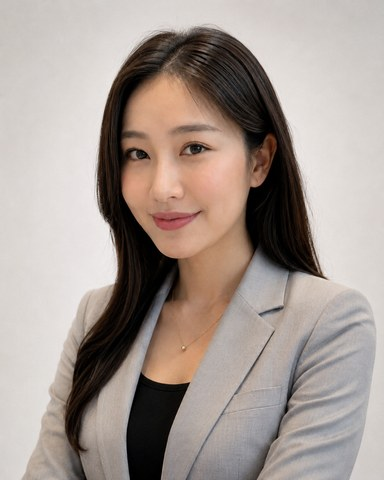
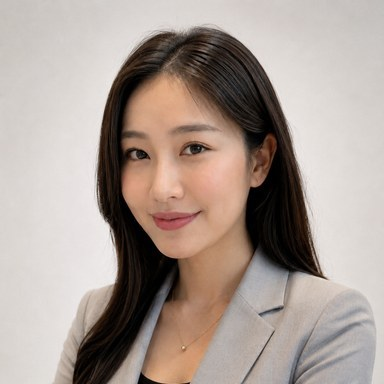
team: refreshed jonathan photo, abby square-crop, bios in human voice
Three fixes in one pass:

1. Jonathan's photo refreshed — new headshot (Jon.png, 1.96MB) resized
   and saved as jonathan.jpg, optimized to 28KB and cropped to 480x480.

2. Abby's avatar was rendering as a slight oval because the source was
   384x480 (taller than wide); the round avatar's `object-cover` was
   compressing the face inside the circle. Square-cropped to 384x384
   (top-anchored, keeps the face) so it now matches Andrew's and
   Jonathan's perfectly circular framing.

3. Bios rewritten in human voice with no em dashes. Style is closer
   to a colleague describing the team than a press release. Notable
   content updates:
     - Abby's school: UC San Diego → UCLA
     - Jonathan's intro reframed around "across the desk from owner-
       operators" rather than "working closely with"
     - Andrew's intro re-sequenced for natural reading order

Founder note paragraphs on /about and the homepage also stripped of
em dashes, keeping the same content but the rhythm now reads like
spoken prose.

diff --git a/web/lib/team.ts b/web/lib/team.ts
@@ -26,8 +26,8 @@ export const team: TeamMember[] = [
     photo: "/assets/team/andrew.jpg",
     photoFocal: "center 32%",
     bio: [
-      "Andrew founded Xtractor Depot in 2016, growing it into a multi-industry supplier of precision lab equipment to clients ranging from cannabis operators to SpaceX and Lucid Motors. A Saint Louis University accounting graduate, he started his entrepreneurial journey in college.",
-      "Running a fast-scaling physical-goods business exposed a universal gap: no one was building and running AI automation systems for operating businesses on an ongoing basis. That insight became Ramped AI.",
+      "Andrew founded Xtractor Depot in 2016 and grew it into a multi-industry supplier of precision lab equipment, with clients ranging from cannabis operators to SpaceX and Lucid Motors. He started his entrepreneurial journey in college and graduated from Saint Louis University with an accounting degree.",
+      "Running a fast-scaling physical-goods business made one gap obvious: nobody was building and running AI automation for operating companies on an ongoing basis. That insight became Ramped AI.",
       "Outside the office, Andrew plays ice hockey, golf, tennis, and paintball. He lives in Los Angeles County with his wife Steph and their dogs.",
     ],
     tags: ["Operations", "B2B Sales", "Manufacturing", "AI Strategy"],
@@ -43,9 +43,9 @@ export const team: TeamMember[] = [
     photo: "/assets/team/jonathan.jpg",
     photoFocal: "center 32%",
     bio: [
-      "A University of Missouri Trulaske College of Business graduate and Dean's List honoree, Jonathan started his career in commercial banking, working closely with owner-operators across manufacturing, distribution, and professional services.",
-      "Hundreds of conversations later, he kept seeing the same pattern: manual workflows wasting hours every week, delaying customer responses, holding back businesses ready to scale. That insight led him to co-found Ramped AI alongside Andrew.",
-      "As COO, Jonathan owns day-to-day execution and client delivery — making sure every implementation runs autonomously from week one. A Missouri native, he's based in the Chesterfield area.",
+      "A University of Missouri Trulaske College of Business grad and Dean's List honoree, Jonathan started his career in commercial banking. He spent years across the desk from owner-operators in manufacturing, distribution, and professional services.",
+      "After hundreds of those conversations, he kept seeing the same pattern. Manual workflows eating hours every week. Customer responses going out late. Businesses ready to scale getting held back by their own ops. That was the insight that pushed him to co-found Ramped AI alongside Andrew.",
+      "As COO, Jonathan runs the day-to-day on client delivery and makes sure every implementation goes autonomous from week one. He's a Missouri native and lives in the Chesterfield area.",
     ],
     tags: ["Operations", "Client Delivery", "Banking & Finance", "Process Design"],
     basedIn: "Chesterfield, MO",
@@ -59,9 +59,9 @@ export const team: TeamMember[] = [
     photo: "/assets/team/abby.jpg",
     photoFocal: "center 28%",
     bio: [
-      "A UC San Diego Communication grad, Abby spent her early career running brand and content at two DTC startups — learning that great marketing is mostly just real customer stories, told well.",
-      "She moved into B2B as the demand-gen lead at a Series B fintech, where she rebuilt the inbound funnel from scratch and tripled qualified pipeline in eighteen months. That's where she met the operator-level pain Ramped AI now solves.",
-      "At Ramped AI, Abby owns brand and demand — the website, the case studies, every customer story we ship. A San Diego native, she spends weekends surfing Pacific Beach and shooting film on her Leica.",
+      "A UCLA Communication grad, Abby spent her early career running brand and content at two DTC startups. She came out of it with one stubborn belief: great marketing is mostly just real customer stories, told well.",
+      "She moved into B2B as the demand-gen lead at a Series B fintech, where she rebuilt the inbound funnel from scratch and tripled qualified pipeline in eighteen months. That's where she ran into the operator-level pain Ramped AI now solves.",
+      "At Ramped AI, Abby owns brand and demand. The website, the case studies, every customer story we ship. She lives in San Diego, where weekends usually mean surfing Pacific Beach or shooting film on her Leica.",
     ],
     tags: ["Brand", "Demand Gen", "Content", "B2B"],
     basedIn: "San Diego, CA",
@@ -72,9 +72,9 @@ export const team: TeamMember[] = [
 export const founderNote = {
   attribution: "Andrew Yoon",
   paragraphs: [
-    'I spent ten years running operating businesses — distribution, fulfillment, e-commerce. The kind of company where one person wears six hats and "automation" usually means "another spreadsheet."',
-    "In 2024, I started using AI agents inside Xtractor Depot — my industrial-equipment business. The results were absurd. Quote turnaround dropped from 3 days to 8 minutes. We saved 14 hours a week on inventory work. By month three I'd freed up enough capacity to hire a salesperson instead of an admin.",
-    "Naturally, every operator I knew asked me to build them the same thing. So I did. And I noticed every consultant they'd already hired had given them strategy — slide decks, frameworks, north stars — but no working software.",
+    'I spent ten years running operating businesses. Distribution, fulfillment, e-commerce. The kind of company where one person wears six hats and "automation" usually means "another spreadsheet."',
+    "In 2024, I started using AI agents inside Xtractor Depot, my industrial-equipment business. The results were absurd. Quote turnaround dropped from 3 days to 8 minutes. We saved 14 hours a week on inventory work. By month three I'd freed up enough capacity to hire a salesperson instead of an admin.",
+    "Naturally, every operator I knew asked me to build them the same thing. So I did. And I noticed every consultant they'd already hired had given them strategy. Slide decks, frameworks, north stars. But no working software.",
     "Ramped AI is the company we wish had existed. We don't sell roadmaps. We build, deploy, and run the agents on a flat monthly fee. If they aren't live in 30 days, you don't pay.",
   ],
 };